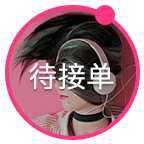
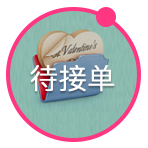
更换活动分类icon

diff --git a/pages/activity/activity.js b/pages/activity/activity.js
@@ -16,6 +16,41 @@ Page({
 
     touchStartTime: 0,
     touchEndTime: 0,
+
+    types: [
+      {
+        id: 0x1001,
+        icon: '/img/activity/icon_wait_receive.png'
+      },
+      {
+        id: 0x1002,
+        icon: '/img/activity/icon_wait_action.png'
+      },
+      {
+        id: 0x1003,
+        icon: '/img/activity/icon_wait_exam.png'
+      },
+      {
+        id: 0x1004,
+        icon: '/img/activity/icon_wait_tested.png'
+      },
+      {
+        id: 0x1005,
+        icon: '/img/activity/icon_completed.png'
+      },
+      {
+        id: 0x1006,
+        icon: '/img/activity/icon_refused.png'
+      },
+      {
+        id: 0x1007,
+        icon: '/img/activity/icon_stopped.png'
+      },
+      {
+        id: 0x1001,
+        icon: '/img/activity/icon_cancel.png'
+      },
+    ]
   },
 
   /**
